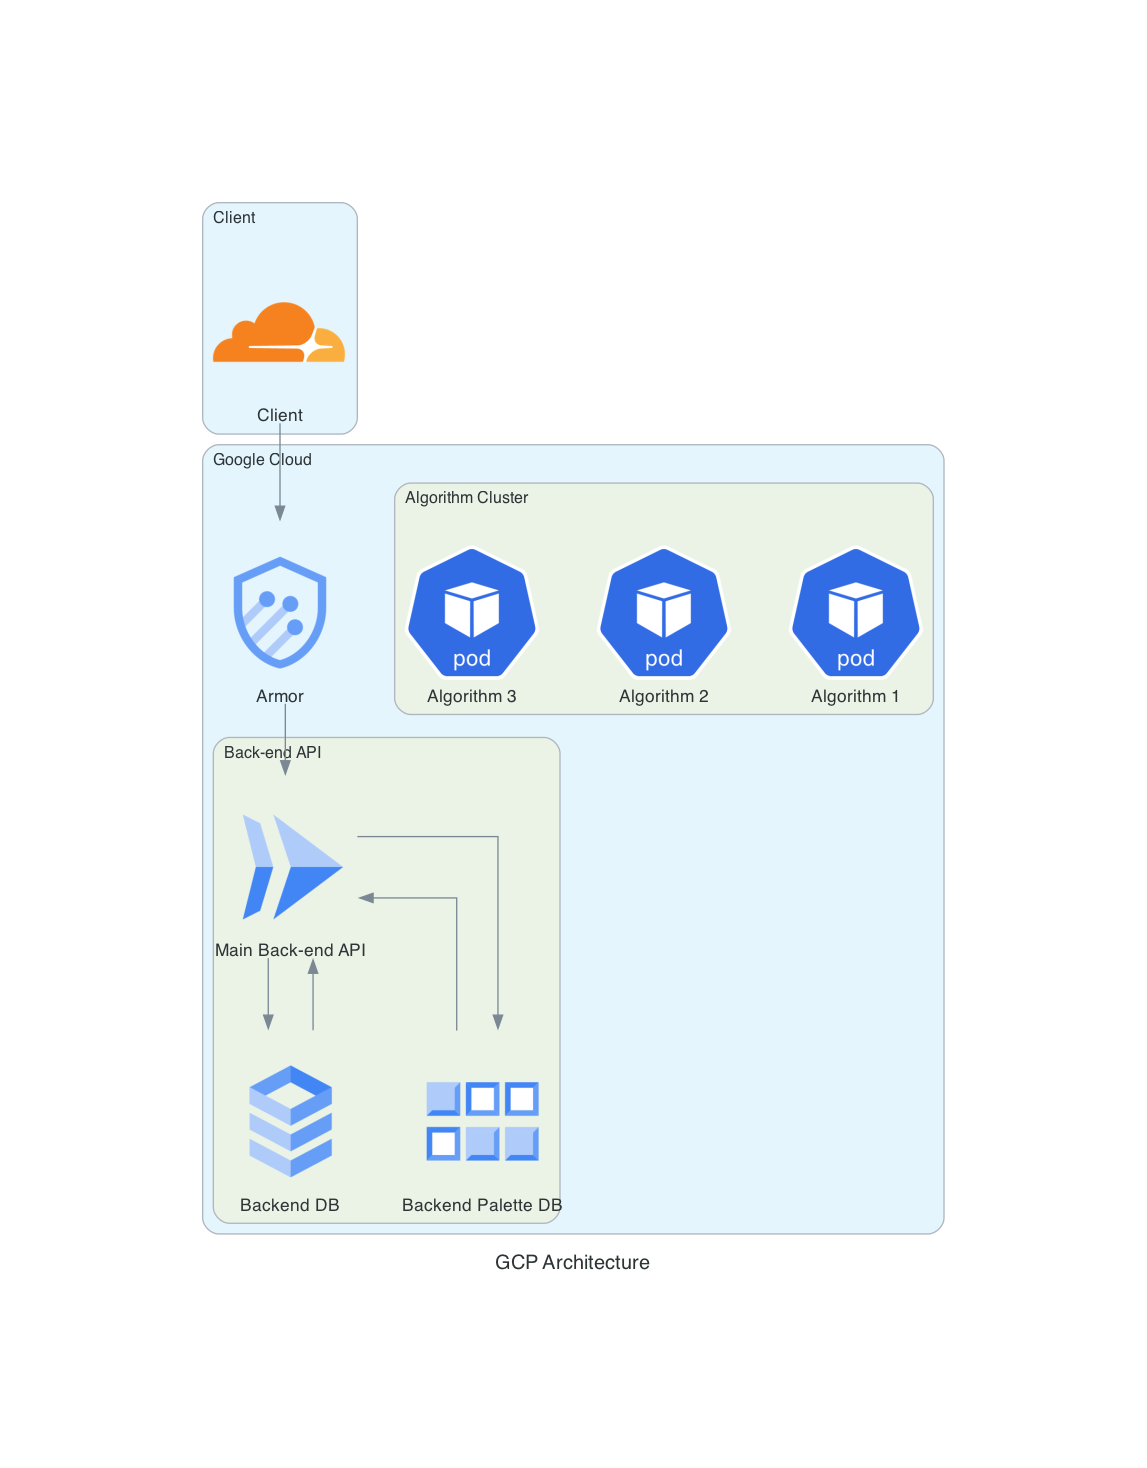
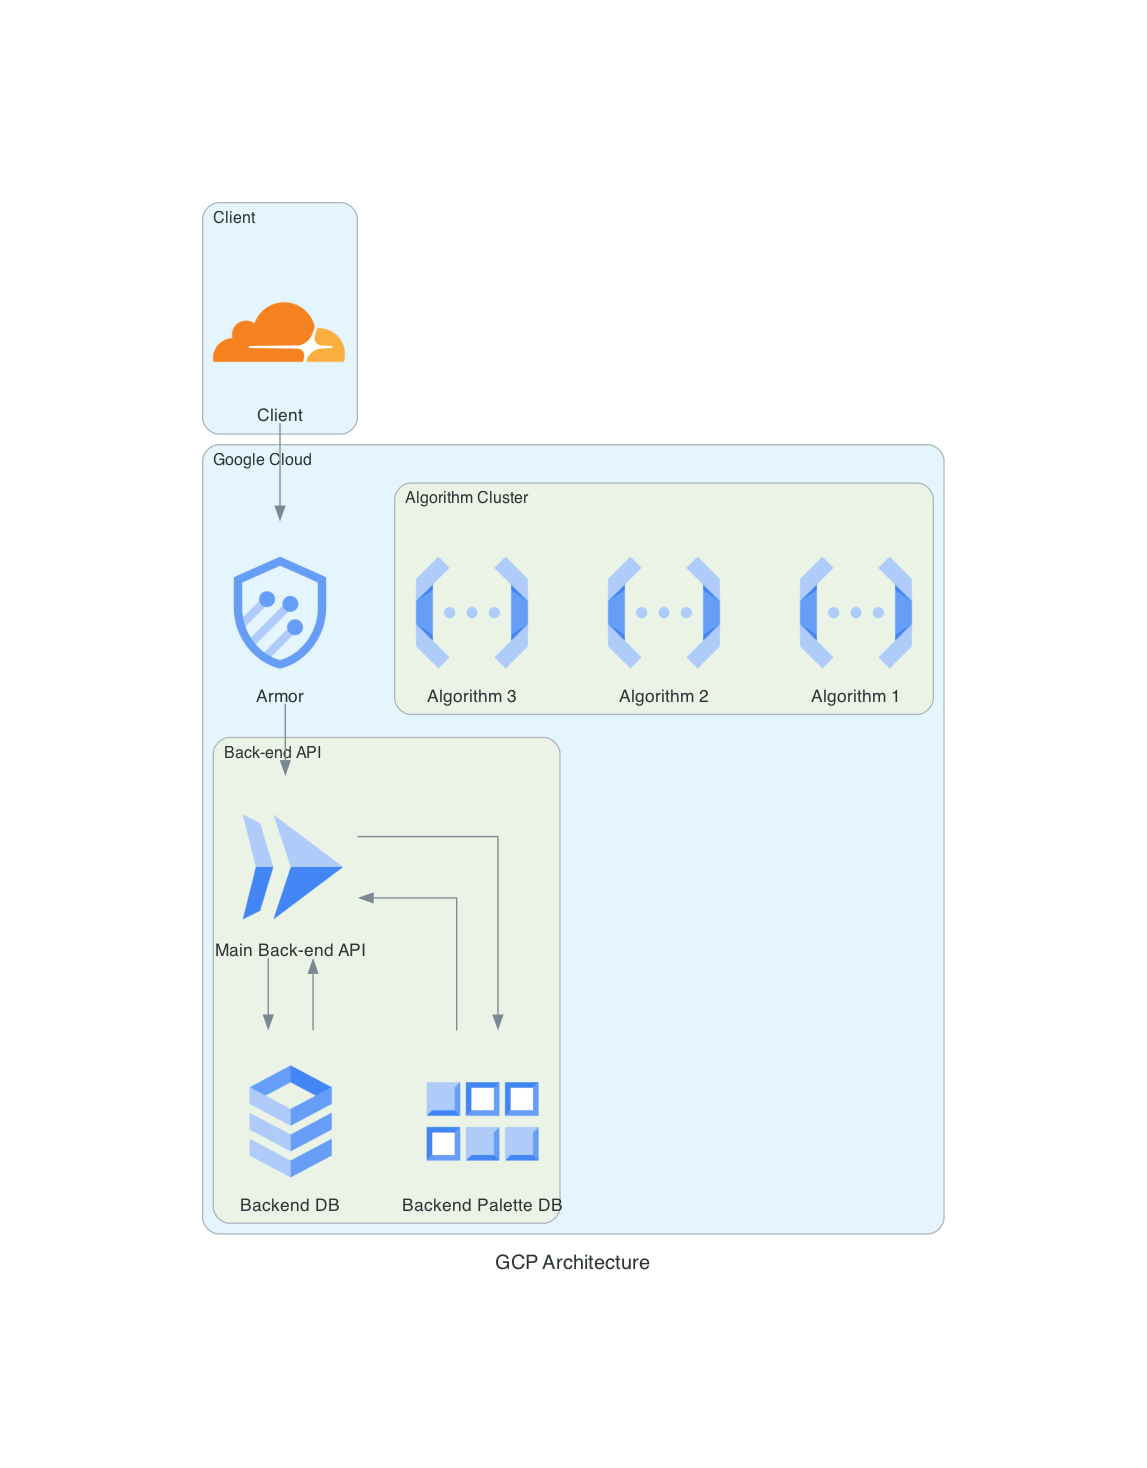
feat(diagrams): update

Changed region(s): [[0.5187, 0.3678, 0.6408, 0.4598], [0.6713, 0.3678, 0.8239, 0.4598], [0.3357, 0.3678, 0.4882, 0.4598]]

diff --git a/diagrams/architecture/__init__.py b/diagrams/architecture/__init__.py
@@ -23,9 +23,9 @@ def drawArchitecture(is_service=False):
             backend_nosql = Datastore("Backend Palette DB")
 
         with Cluster("Algorithm Cluster"):
-            algorithm1 = Pod("Algorithm 1") if not is_service else Run("Algorithm 1")
-            algorithm2 = Pod("Algorithm 2") if not is_service else Run("Algorithm 1")
-            algorithm3 = Pod("Algorithm 3") if not is_service else Run("Algorithm 1")
+            algorithm1 = Functions("Algorithm 1")
+            algorithm2 = Functions("Algorithm 2")
+            algorithm3 = Functions("Algorithm 3")
     
     client >> armor
 
